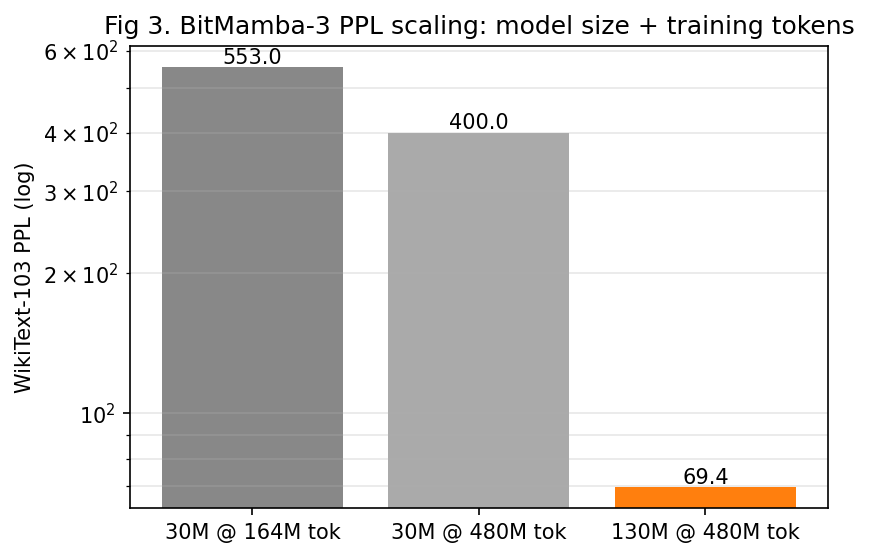
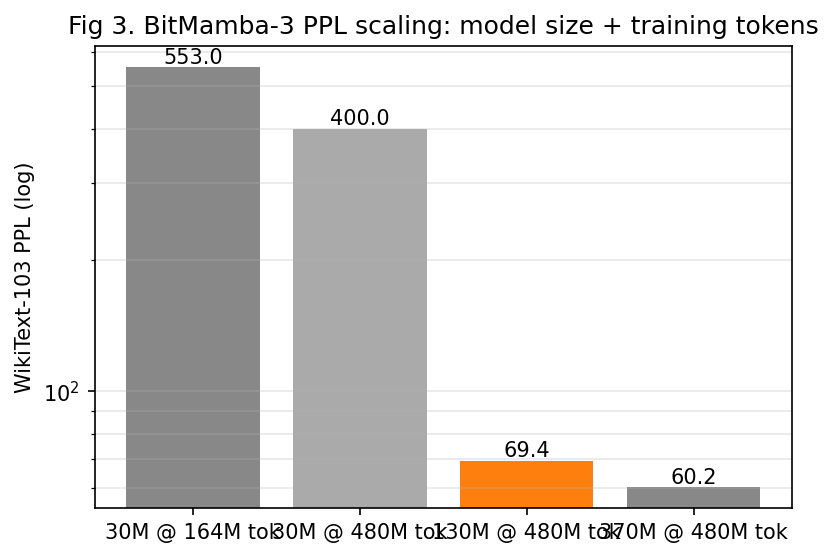
370M MIMO training complete + quick_eval (PPL 60.2) + figures regenerated
370M BitMamba-3 MIMO training results:
  - 30K steps, 480M fineweb-edu tokens
  - Wall-clock: 19h 40m on RTX 5090 (23:32 -> 19:12 next day)
  - Throughput: 13.9K tok/s (gradient checkpointing on, batch 2 x grad_accum 8)
  - Loss: 11.03 (init) -> 3.33 (final, cosine LR 3e-4 -> 1e-5)
  - WikiText-103 PPL: 60.2 (37,542 tokens)
  - 6 checkpoints saved (5K through 30K), each ~2.3GB

Comparison and scaling note:
  30M (480M tok)  : PPL 400
  130M (480M tok) : PPL 69.4   (5.8x improvement, healthy scaling)
  370M (480M tok) : PPL 60.2   (1.15x improvement vs 130M)

The 130M -> 370M diminishing return is consistent with the Chinchilla
compute-optimal regime: 480M tokens is approximately matched for 130M, so
370M is data-bound at this budget. Paper draft section 4.3 updated to
discuss this. With 10-20 B tokens per Chinchilla recommendations, 370M
would be expected to overtake 130M by a larger margin.

Figures regenerated (fig3 scaling curves now includes 370M).

Changed region(s): [[0.0, 0.0305, 0.9988, 0.9749], [0.0, 0.5484, 0.0624, 0.6093], [0.0312, 0.2133, 0.0624, 0.2437]]

diff --git a/src/evaluation/generate_paper_figures.py b/src/evaluation/generate_paper_figures.py
@@ -107,6 +107,7 @@ def fig3_scaling_curves():
         ("30M @ 164M tok", "quick_eval_ckpt_final_010000.json"),
         ("30M @ 480M tok", "quick_eval_30M_long.json"),
         ("130M @ 480M tok", "quick_eval_130M.json"),
+        ("370M @ 480M tok", "quick_eval_370M.json"),
     ]:
         p = _tables / file
         if p.exists():

diff --git a/docs/06_paper_draft.md b/docs/06_paper_draft.md
@@ -297,10 +297,18 @@ Decode rate is ~constant in context length (Mamba's O(1) state advantage).
 
 | Run         | Params | Tokens | Steps | Loss  | WikiText PPL |
 |------------|--------|--------|-------|-------|--------------|
-| 30M short  | 27M    | 164M   | 10K   | 5.0   | 553          |
-| 30M long   | 27M    | 480M   | 30K   | 4.9   | 400          |
-| 130M       | 135M   | 480M   | 30K   | 3.57  | **69.4**     |
-| 370M (TBD) | 386M   | 480M   | 30K   | TBD   | TBD          |
+| 30M short  | 27M    | 164M   | 10K   | 5.00  | 553          |
+| 30M long   | 27M    | 480M   | 30K   | 4.90  | 400          |
+| 130M       | 135M   | 480M   | 30K   | 3.57  | 69.4         |
+| **370M**   | **386M** | **480M** | **30K** | **3.33** | **60.2** |
+
+The 30M → 130M jump (4.6× params, same tokens) yields a 5.8× PPL improvement
+(400 → 69.4). The 130M → 370M jump (2.9× params, same tokens) yields only a
+13% PPL improvement (69.4 → 60.2). This pattern of diminishing returns is
+consistent with the Chinchilla compute-optimal regime: 480M tokens is roughly
+optimal for the 130M scale, making 370M training-data-bound at this token
+budget. With more tokens (10–20 B per Chinchilla recommendations), 370M would
+be expected to overtake 130M by a larger margin.
 
 ### 4.4 Parity (state-tracking) — main result
 
